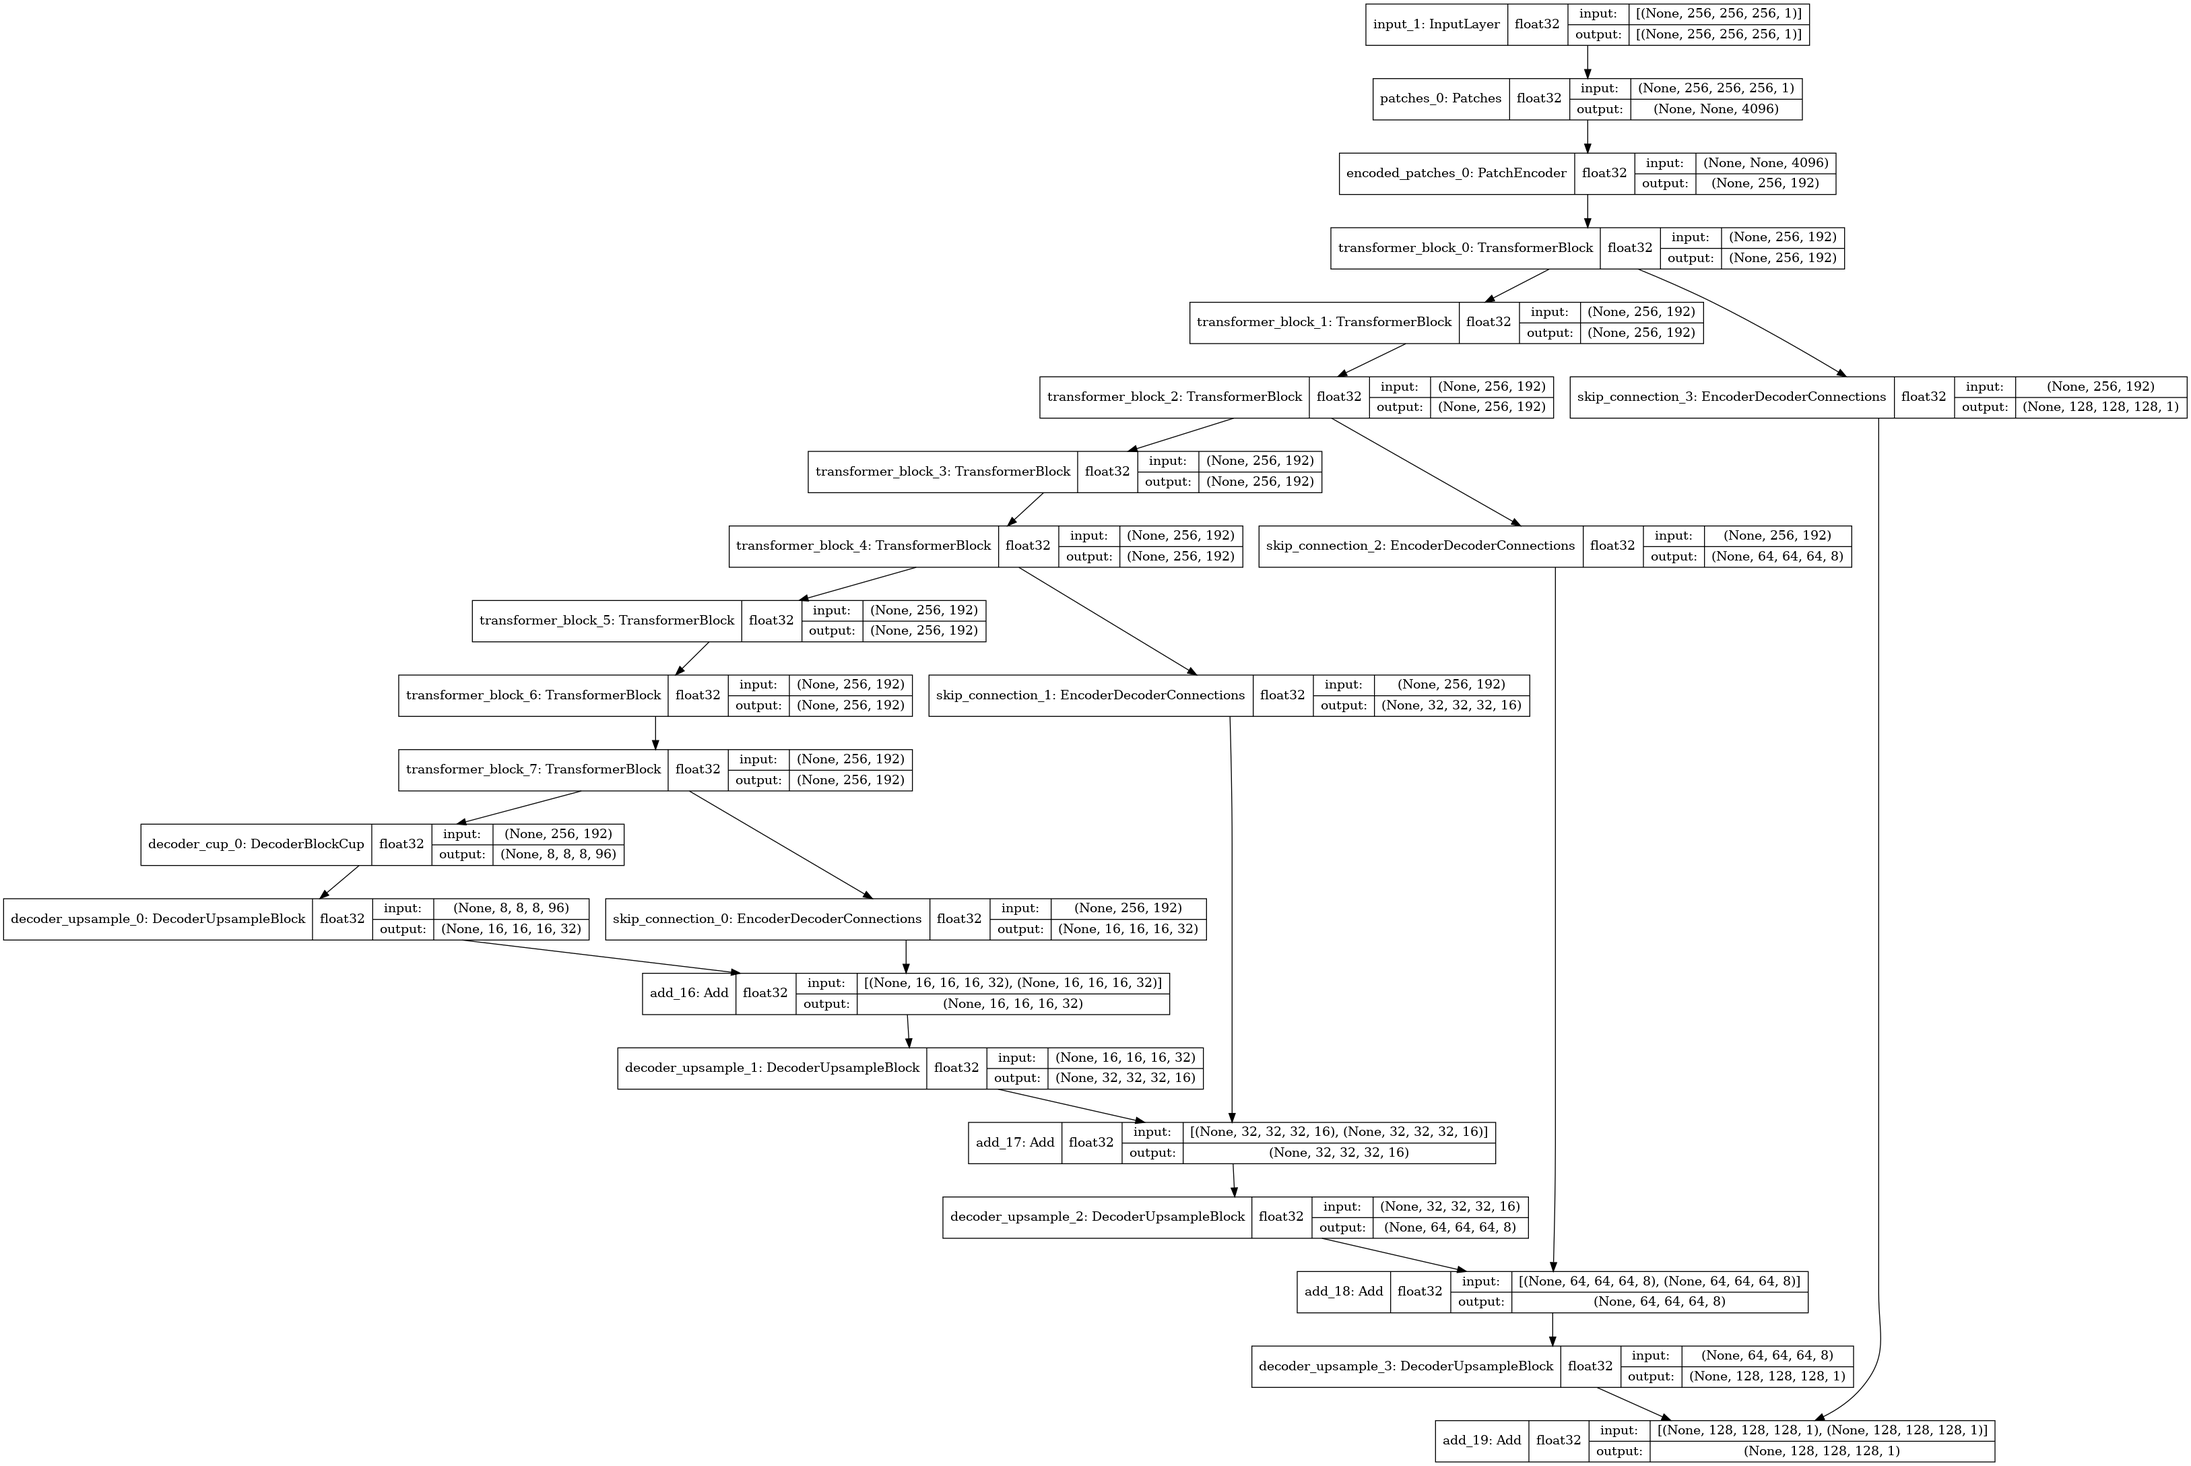
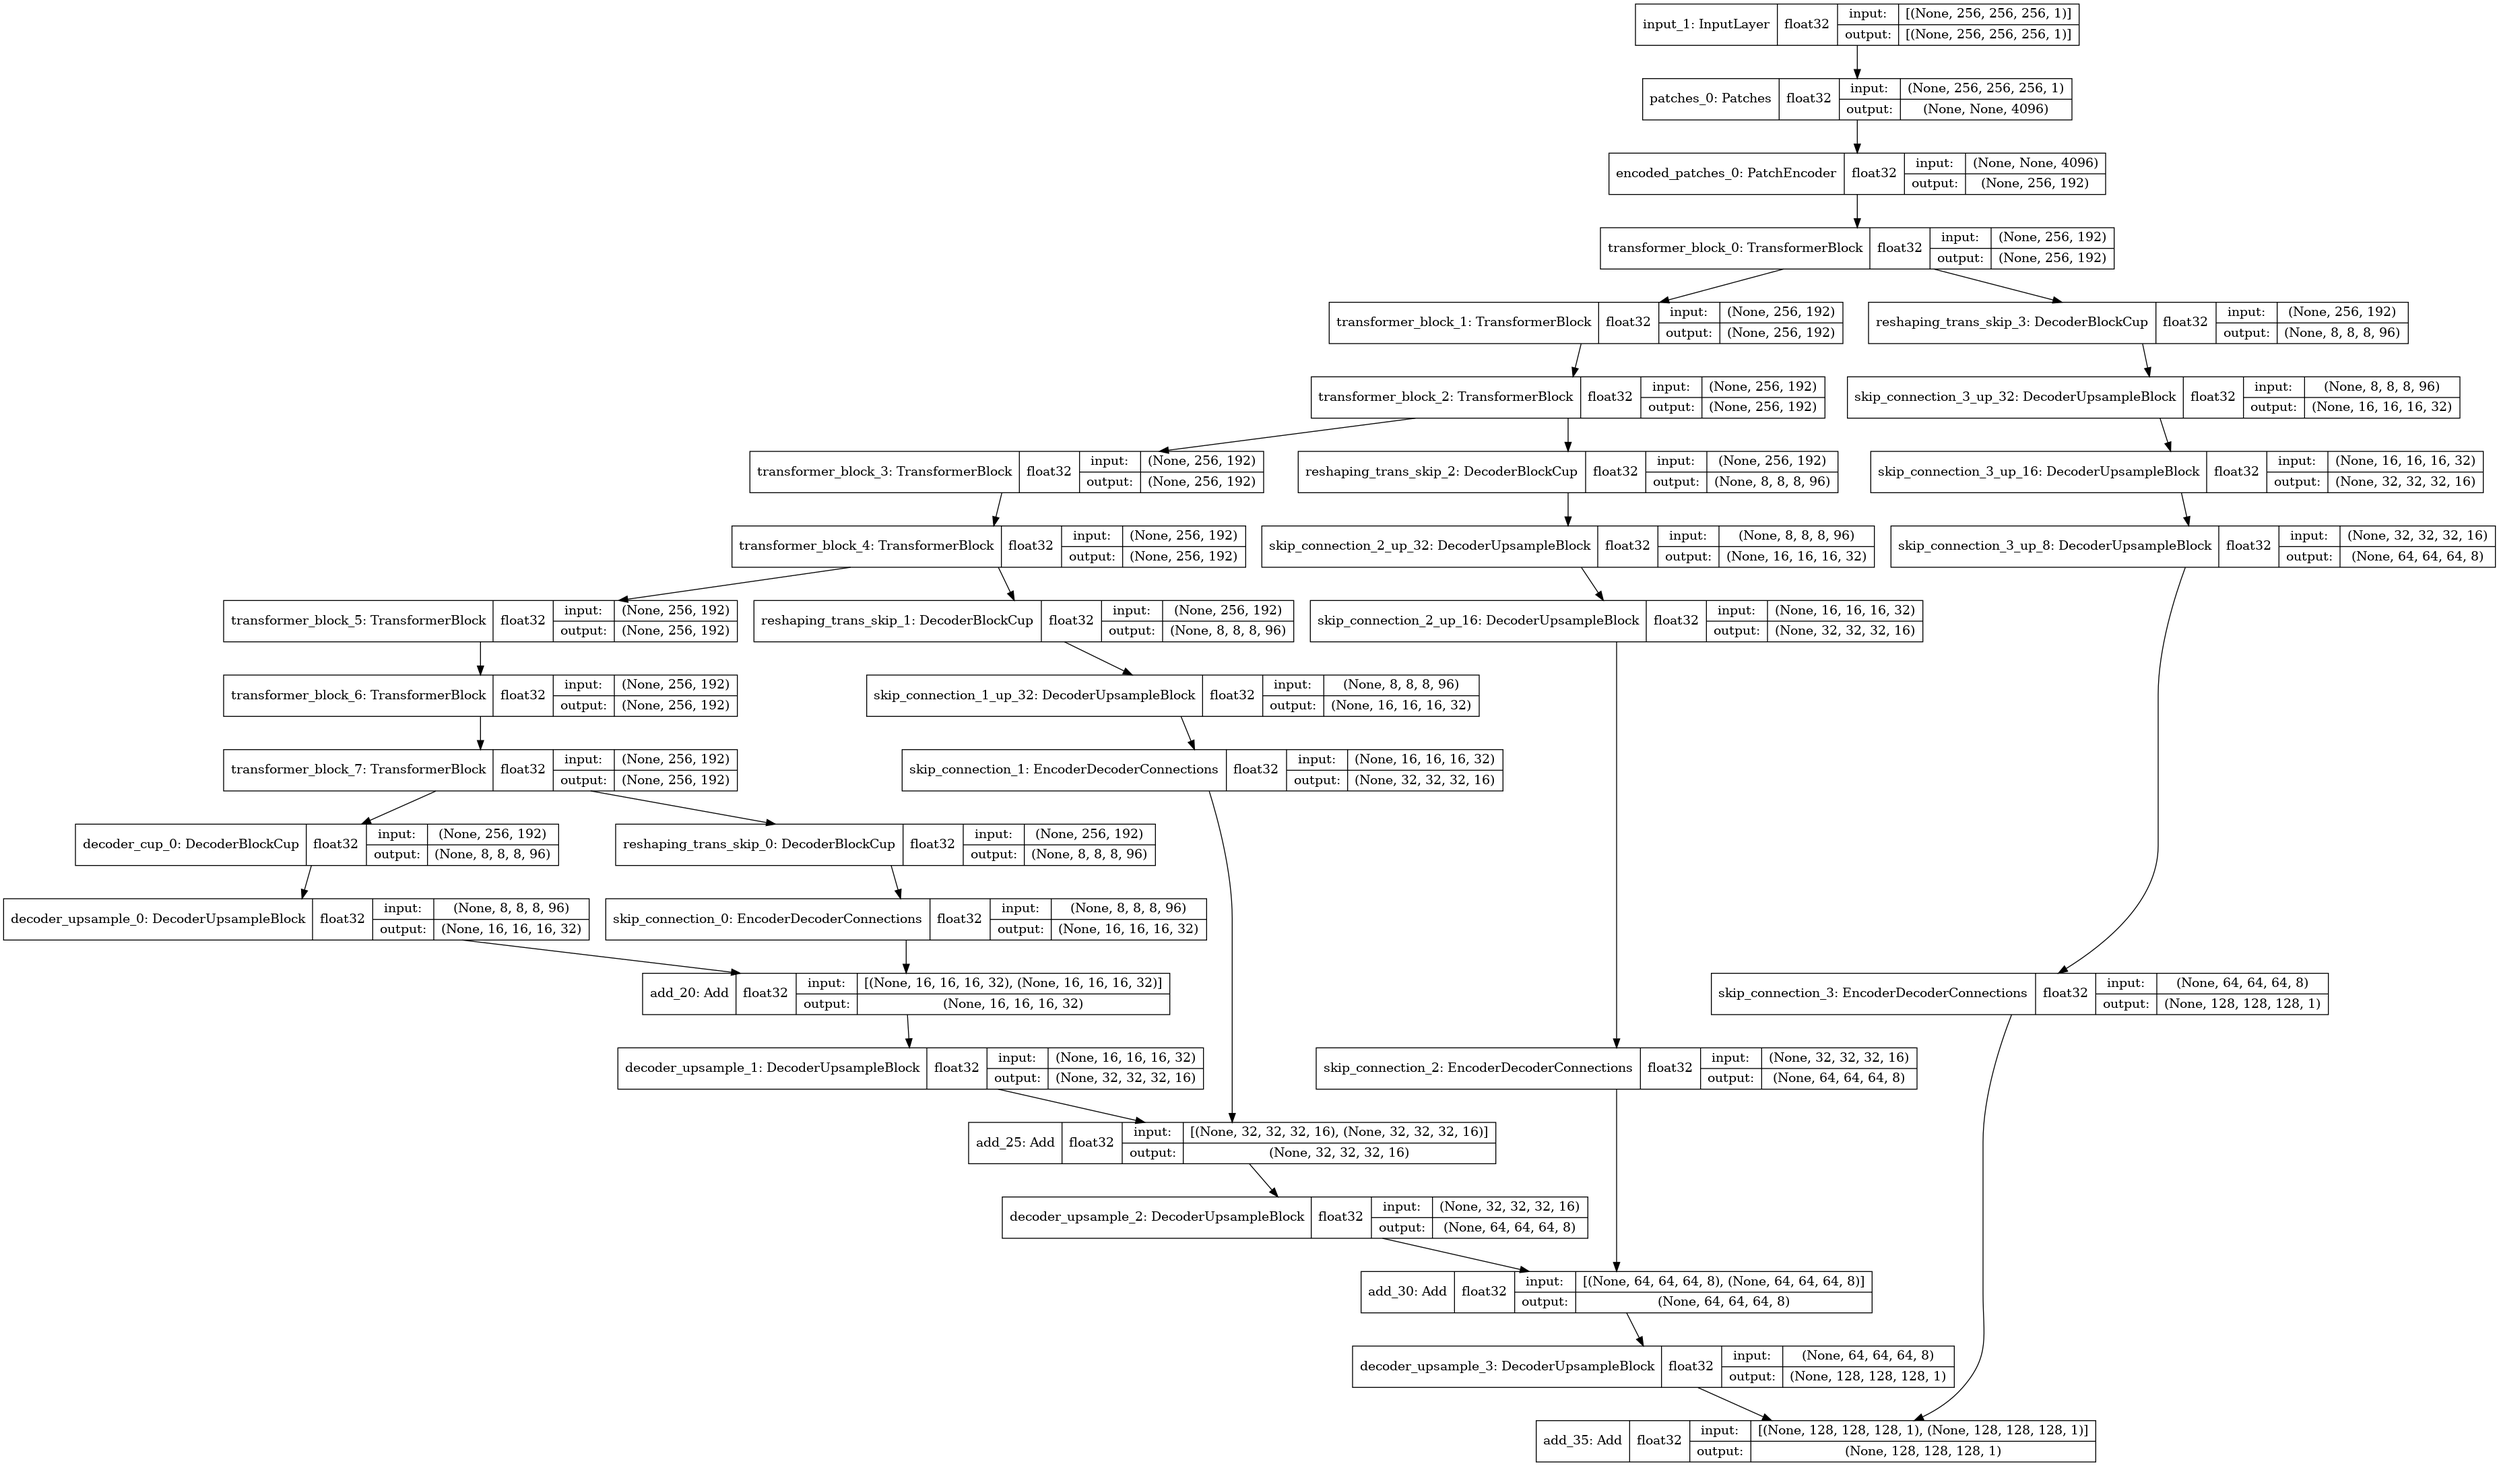
error non-first call trying to fix

diff --git a/model/model.py b/model/model.py
@@ -56,18 +56,24 @@ def build_model_test(config):
         name=f"decoder_upsample_0"
     )(decoder_block_cup)
 
-    skip_conn_0 = EncoderDecoderConnections(
-        filters=32,
-        kernel_size=3,
-        target_size=(
+    # Reshaping transformer
+    skip_conn_0 = DecoderBlockCup(
+        target_shape=(
             config.image_height//dec, 
             config.image_width//dec, 
             config.image_depth//dec, 
             config.transformer.projection_dim//2
         ),
-        de_up_filters=[],
-        name="skip_connection_0"
+        filters=64,
+        normalization_rate=None,
+        name='reshaping_trans_skip_0'
     )(transformer_layers[-1])
+
+    skip_conn_0 = EncoderDecoderConnections(
+        filters=32,
+        kernel_size=3,
+        name="skip_connection_0"
+    )(skip_conn_0)
     skip_conn_0 = layers.Add()([decoder_up_block_0, skip_conn_0])
 
     decoder_up_block_1 = DecoderUpsampleBlock(
@@ -76,18 +82,30 @@ def build_model_test(config):
         name=f"decoder_upsample_1"
     )(skip_conn_0)
 
-    skip_conn_1 = EncoderDecoderConnections(
-        filters=16,
-        kernel_size=3,
-        target_size=(
+    # Reshaping transformer
+    skip_conn_1 = DecoderBlockCup(
+        target_shape=(
             config.image_height//dec, 
             config.image_width//dec, 
             config.image_depth//dec, 
             config.transformer.projection_dim//2
         ),
-        de_up_filters=[32],
-        name="skip_connection_1"
+        filters=64,
+        normalization_rate=None,
+        name='reshaping_trans_skip_1'
     )(transformer_layers[-4])
+
+    skip_conn_1 = DecoderUpsampleBlock(
+        filters=32, 
+        kernel_size=3,
+        name='skip_connection_1_up_32'
+    )(skip_conn_1)
+
+    skip_conn_1 = EncoderDecoderConnections(
+        filters=16,
+        kernel_size=3,
+        name="skip_connection_1"
+    )(skip_conn_1)
     skip_conn_1 = layers.Add()([decoder_up_block_1, skip_conn_1])
 
 
@@ -97,18 +115,36 @@ def build_model_test(config):
         name=f"decoder_upsample_2"
     )(skip_conn_1)
 
-    skip_conn_2 = EncoderDecoderConnections(
-        filters=8,
-        kernel_size=3,
-        target_size=(
+    # Reshaping transformer
+    skip_conn_2 = DecoderBlockCup(
+        target_shape=(
             config.image_height//dec, 
             config.image_width//dec, 
             config.image_depth//dec, 
             config.transformer.projection_dim//2
         ),
-        de_up_filters=[32, 16],
-        name="skip_connection_2"
+        filters=64,
+        normalization_rate=None,
+        name='reshaping_trans_skip_2'
     )(transformer_layers[-6])
+
+    skip_conn_2 = DecoderUpsampleBlock(
+        filters=32, 
+        kernel_size=3,
+        name='skip_connection_2_up_32'
+    )(skip_conn_2)
+
+    skip_conn_2 = DecoderUpsampleBlock(
+        filters=16, 
+        kernel_size=3,
+        name='skip_connection_2_up_16'
+    )(skip_conn_2)
+
+    skip_conn_2 = EncoderDecoderConnections(
+        filters=8,
+        kernel_size=3,
+        name="skip_connection_2"
+    )(skip_conn_2)
     skip_conn_2 = layers.Add()([decoder_up_block_2, skip_conn_2])
 
     
@@ -118,18 +154,42 @@ def build_model_test(config):
         name=f"decoder_upsample_3"
     )(skip_conn_2)
 
-    skip_conn_3 = EncoderDecoderConnections(
-        filters=1,
-        kernel_size=3,
-        target_size=(
+    # Reshaping transformer
+    skip_conn_3 = DecoderBlockCup(
+        target_shape=(
             config.image_height//dec, 
             config.image_width//dec, 
             config.image_depth//dec, 
             config.transformer.projection_dim//2
         ),
-        de_up_filters=[32, 16, 8],
-        name="skip_connection_3"
+        filters=64,
+        normalization_rate=None,
+        name='reshaping_trans_skip_3'
     )(transformer_layers[0])
+
+    skip_conn_3 = DecoderUpsampleBlock(
+        filters=32, 
+        kernel_size=3,
+        name='skip_connection_3_up_32'
+    )(skip_conn_3)
+
+    skip_conn_3 = DecoderUpsampleBlock(
+        filters=16, 
+        kernel_size=3,
+        name='skip_connection_3_up_16'
+    )(skip_conn_3)
+
+    skip_conn_3 = DecoderUpsampleBlock(
+        filters=8, 
+        kernel_size=3,
+        name='skip_connection_3_up_8'
+    )(skip_conn_3)
+
+    skip_conn_3 = EncoderDecoderConnections(
+        filters=1,
+        kernel_size=3,
+        name="skip_connection_3"
+    )(skip_conn_3)
     skip_conn_3 = layers.Add()([decoder_up_block_3, skip_conn_3])
 
     return Model(inputs=inputs, outputs=skip_conn_3)

diff --git a/model/blocks.py b/model/blocks.py
@@ -414,22 +414,14 @@ class ConnectionComponents(layers.Layer):
 
 class EncoderDecoderConnections(layers.Layer):
     
-    def __init__(self, filters, kernel_size, target_size, de_up_filters, **kwarks):
+    def __init__(self, filters, kernel_size, **kwarks):
         super(EncoderDecoderConnections, self).__init__(**kwarks)
         self.filters = filters
         self.kernel_size = kernel_size
-        self.target_size = target_size
-        self.de_up_layers = []
 
         # self.concatenate = layers.Concatenate()
         self.upsample = layers.UpSampling3D(
             size=(2, 2, 2)
-        )
-
-        self.decoder_block_cup_ed = DecoderBlockCup(
-            target_shape=self.target_size,
-            filters=64,
-            normalization_rate=None,
         )
 
         self.con_comp_1 = ConnectionComponents(
@@ -452,25 +444,10 @@ class EncoderDecoderConnections(layers.Layer):
             kernel_size=self.kernel_size
         )
 
-        for de_up_filter in de_up_filters:
-            self.de_up_layers.append(
-                DecoderUpsampleBlock(
-                    filters=de_up_filter, 
-                    kernel_size=3,
-                )
-            )
-
 
     def call(self, encoder_input):
-        
-        # Reshaping transformer
-        out = self.decoder_block_cup_ed(encoder_input)
-        
-        for idx in range(len(self.de_up_layers)):
-            out = self.de_up_layers[idx](out)
-
         # coding res path
-        out = self.con_comp_1(out)
+        out = self.con_comp_1(encoder_input)
         out = self.con_comp_2(out)
         out = self.con_comp_3(out)
         out = self.con_comp_4(out)
@@ -483,15 +460,12 @@ class EncoderDecoderConnections(layers.Layer):
         config.update({
             'filters' : self.filters,
             'kernel_size' : self.kernel_size,
-            'target_size' : self.target_size,
             # layers
             'upsample': self.upsample,
             'con_comp_1': self.con_comp_1,
             'con_comp_2': self.con_comp_2,
             'con_comp_3': self.con_comp_3,
             'con_comp_4': self.con_comp_4,
-            'decoder_block_cup_ed': self.decoder_block_cup_ed,
-
         })
         return config
 

diff --git a/train.py b/train.py
@@ -212,6 +212,7 @@ def main():
         dpi=96,
     )
 
+    # exit()
     # Setting up variables for data generators
     TRAIN_IMGS_DIR = config.dataset_path + 'train/images/'
     TRAIN_MSKS_DIR = config.dataset_path + 'train/masks/'
